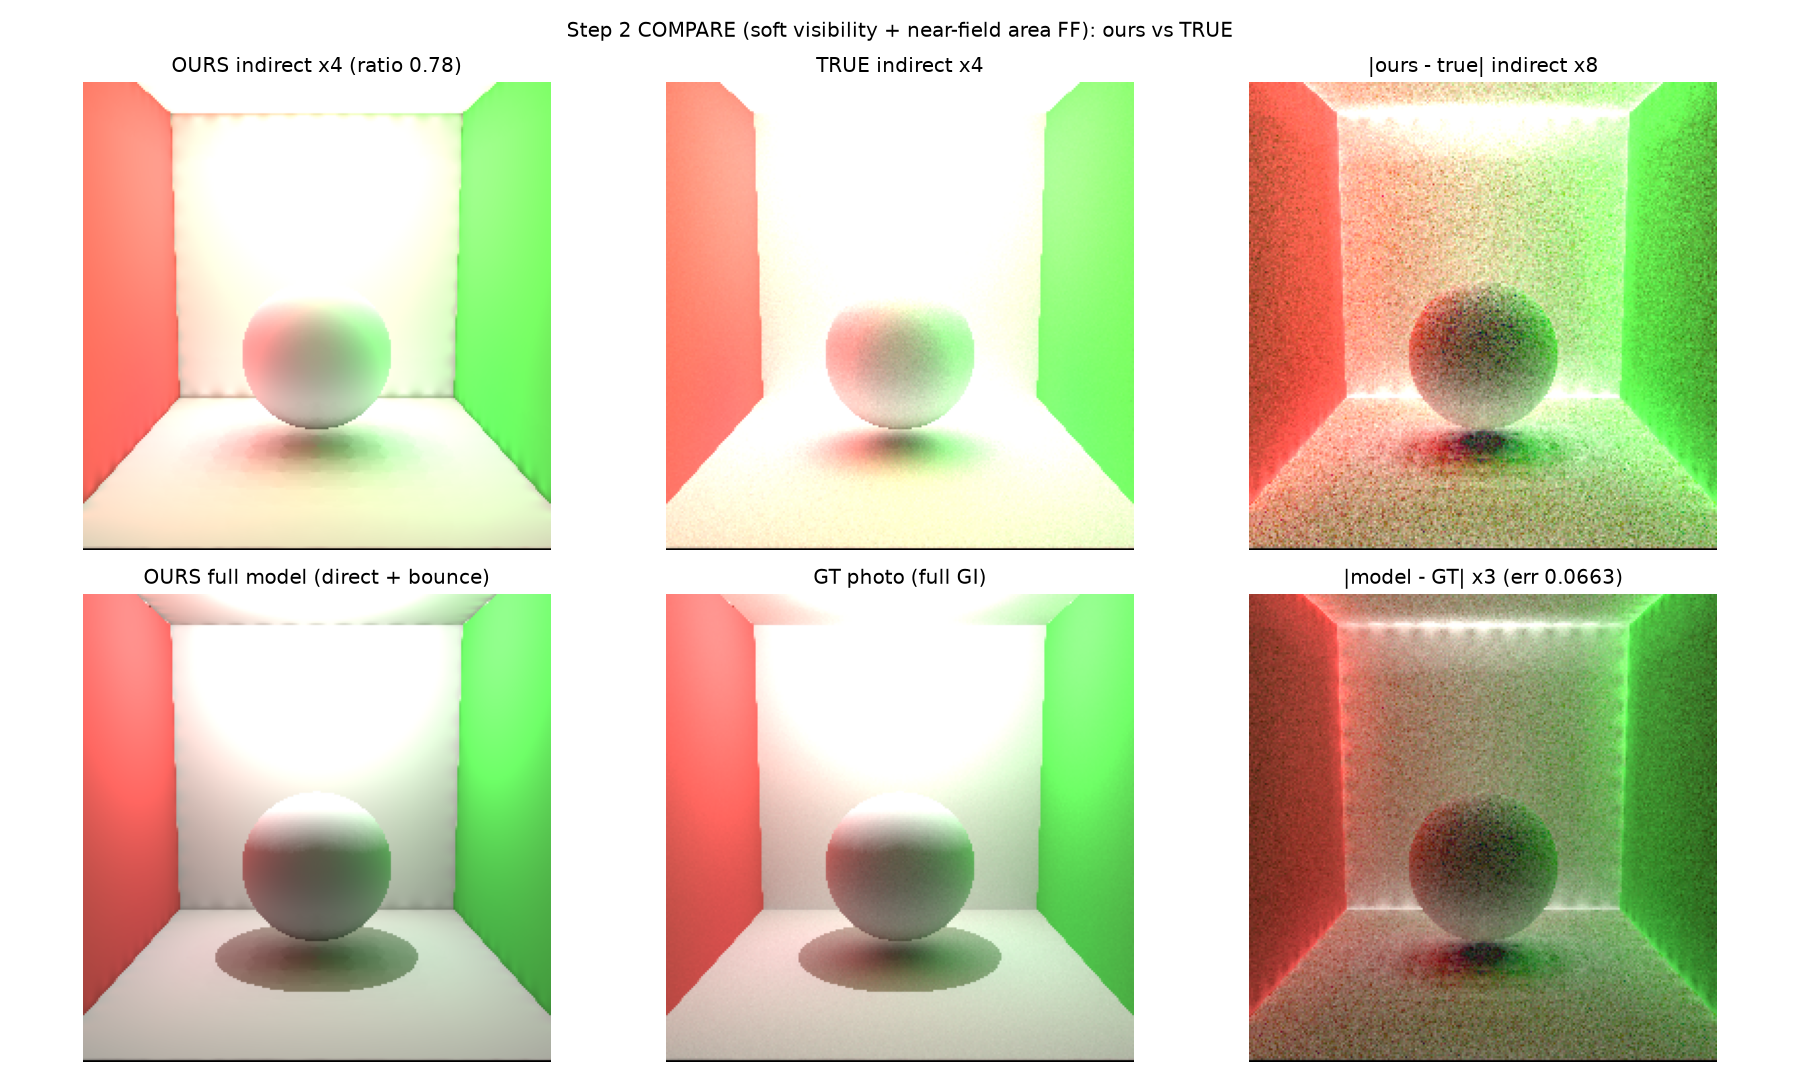
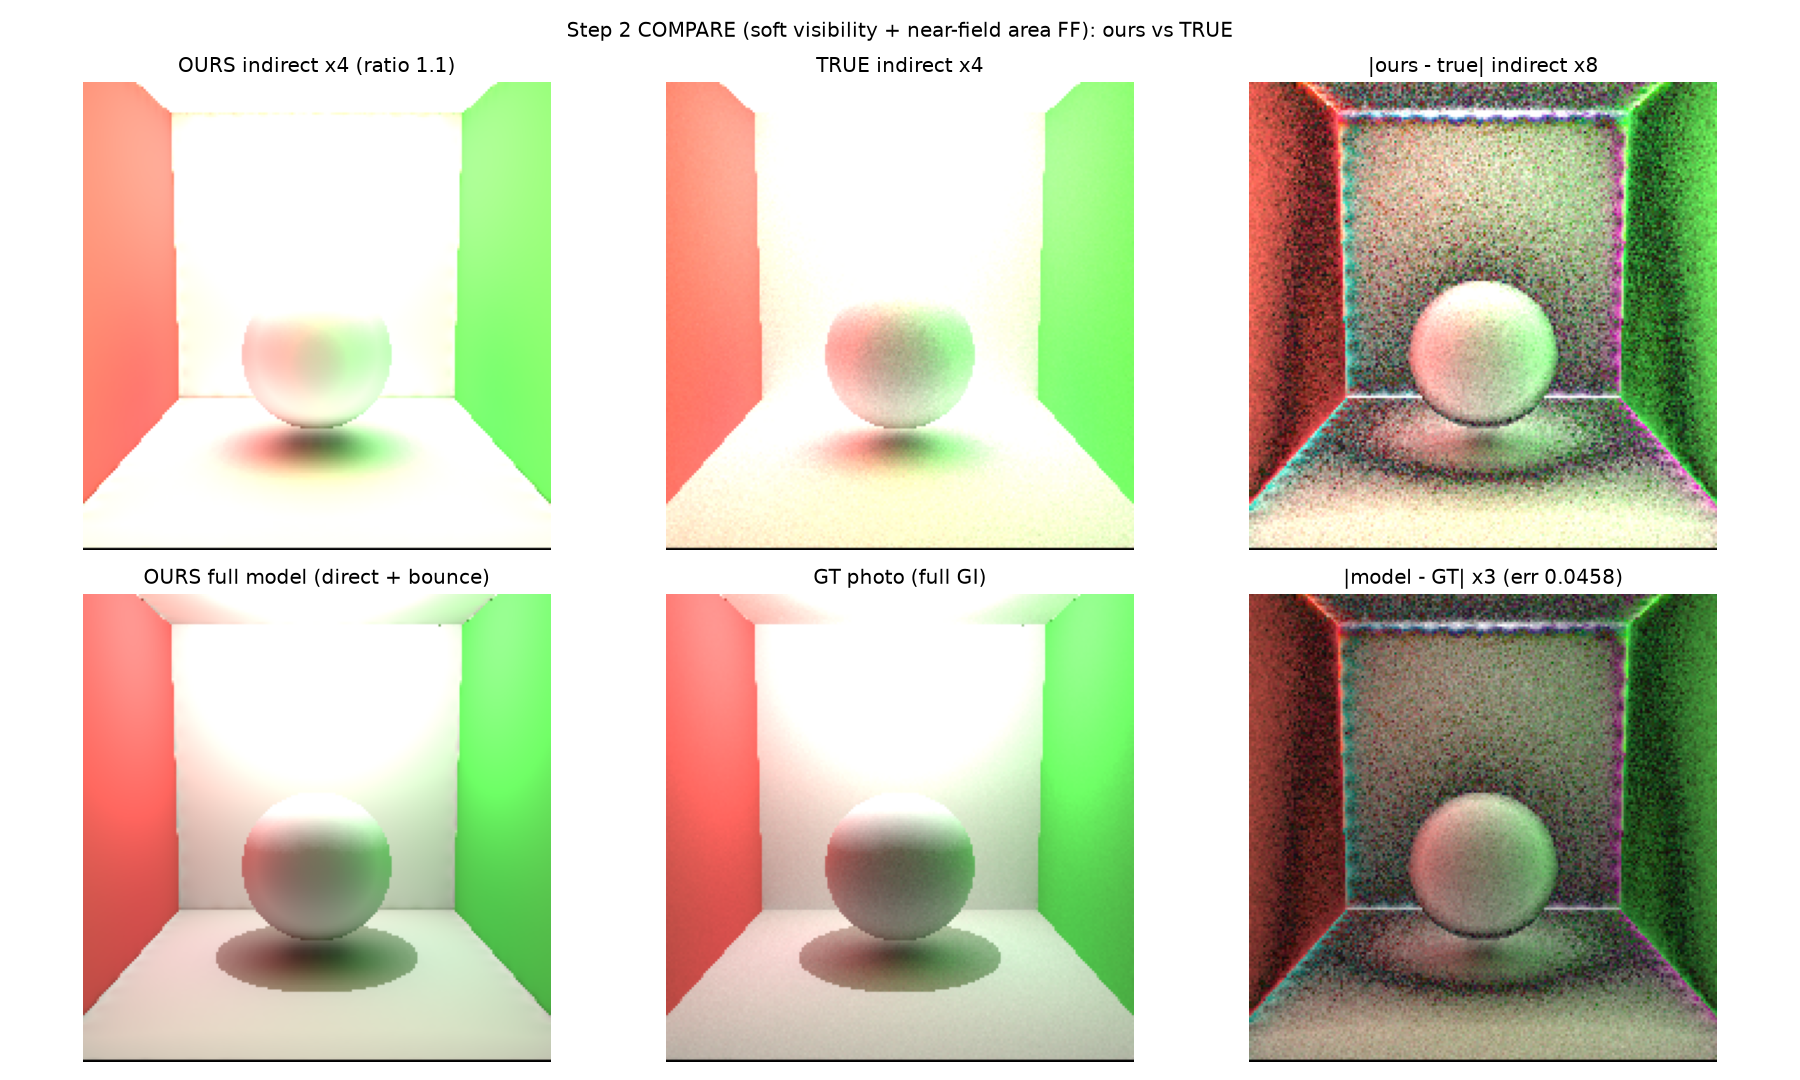
rt step2: exact per-pixel visibility for the bounce gather (ray pixel->patch, precomputed) -> indirect ~1.0-1.1x TRUE, model-vs-GT err 0.046. parked the residual GI-fidelity gap (spatial match not exact; faint shadow/bleed residual in recovered albedo) in REMINDERS_NOTES.md with levers to revisit. S

diff --git a/src/rt/rt_step2.py b/src/rt/rt_step2.py
@@ -26,7 +26,7 @@ H = int(sys.argv[2]) if len(sys.argv)>2 else 128
 ITERS = int(sys.argv[3]) if len(sys.argv)>3 else 400
 GT_SPP = int(sys.argv[4]) if len(sys.argv)>4 else 256
 W=H; EPS=0.04; DMIN=0.6; GT_NB=3
-VOX=0.18; R_MAX=3.0; KNN=96; BOUNCES=2          # element clustering, form-factor neighborhood, indirect bounces
+VOX=0.18; R_MAX=3.0; KNN=96; BOUNCES=3          # element clustering, form-factor neighborhood, indirect bounces
 
 LIGHT_POS = torch.tensor([0.0,0.9,-0.1], device=DEV)
 LIGHT_INT_TRUE = torch.tensor([7.0,7.0,7.0], device=DEV)
@@ -170,13 +170,29 @@ def pixel_weights(p, n, cen, nor, k=8, chunk=16000):
     return nbr,w
 
 
+def exact_vis_G(tr, gsA0, p, n, cen, nor, area, pchunk=2000):
+    """EXACT per-pixel visibility: trace a ray from each pixel to each emitter patch, gate the gather by it.
+    Geometry-only -> precomputed once. Removes the coarse patch-level visibility approximation."""
+    HW=p.shape[0]*p.shape[1]; E=cen.shape[0]; pf=p.reshape(-1,3); nf=n.reshape(-1,3)
+    G=view_G(p,n,cen,nor,area); vis=torch.empty(HW,E,device=DEV)
+    for s in range(0,HW,pchunk):
+        ps=pf[s:s+pchunk]; ns=nf[s:s+pchunk]; c=ps.shape[0]
+        d=cen[None,:,:]-ps[:,None,:]; r=d.norm(dim=-1); u=d/(r[...,None]+1e-9)        # (c,E,3)
+        ori=(ps[:,None,:]+ns[:,None,:]*EPS).expand(-1,E,-1).reshape(-1,3)
+        op,dist=trace_flat(tr,gsA0,ori,u.reshape(-1,3))
+        vis[s:s+pchunk]=(~((op>0.5)&(dist<r.reshape(-1)-3*EPS))).float().view(c,E)
+    clo=(1.0/G.sum(1,keepdim=True).clamp(min=0.3)).clamp(max=1.6)                     # closure normalization
+    return G*vis*clo
+
+
 def gated_G(G, Vis, nbr, w, chunk=2048):
     """bake SOFT per-pixel visibility into G: each pixel blends its k-nearest patches' visibility rows,
     so the shadow boundary is smooth (no patch-step squares). Geometry-only -> precomputed once per view."""
     HW=G.shape[0]; out=torch.empty_like(G)
+    clo=(1.0/G.sum(1,keepdim=True).clamp(min=0.3)).clamp(max=1.6)                     # closure norm: fix ~18% discretization energy loss (capped for open front)
     for s in range(0,HW,chunk):
         vs=(w[s:s+chunk][:,:,None]*Vis[nbr[s:s+chunk]]).sum(1)                       # (c,E) soft visibility
-        out[s:s+chunk]=G[s:s+chunk]*vs
+        out[s:s+chunk]=G[s:s+chunk]*vs*clo[s:s+chunk]
     return out
 
 
@@ -241,7 +257,7 @@ def precompute(tr,S,gsA0,gsN):
         fac_pix=torch.relu((n0*lp_).sum(-1,keepdim=True))*vis0/(ldp.clamp(min=DMIN)**2)
         GTgi=render_gt(tr,S,gsA0,gsN,cam,pdir,LIGHT_POS,LIGHT_INT_TRUE,GT_SPP,GT_NB).detach()
         GTdir=render_gt(tr,S,gsA0,gsN,cam,pdir,LIGHT_POS,LIGHT_INT_TRUE,0,0).detach()
-        Graw=view_G(p0,n0,cen,nor,area); pnbr,pw=pixel_weights(p0,n0,cen,nor); G=gated_G(Graw,Vis,pnbr,pw)
+        G=exact_vis_G(tr,gsA0,p0,n0,cen,nor,area)                                    # exact per-pixel visibility (consistent with compare)
         views.append(dict(cam=cam,pdir=pdir,hit=hit0,p=p0,n=n0,alb_t=alb_t,fac=fac_pix,GTgi=GTgi,GTdir=GTdir,G=G))
     return dict(fac_g=fac_g,eid=eid,E=E,K=K,V=Vis,Kdens=dens,mean_fac_elem=mean_fac_elem,views=views,
                 cen=cen,nor=nor,area=area)
@@ -467,7 +483,7 @@ def stage_compare():
     smean=lambda x:(torch.zeros(E,x.shape[1],device=DEV).index_add_(0,eid,x))/cntN[:,None]
     rho_elem=smean(S["alb"]); Edir_elem=LIGHT_INT_TRUE.view(1,3)*mean_fac_elem[:,None]
     cam,pdir=camera(*VIEWS[0]); hit0,p0,n0,alb_t=surf(tr,gsA0,gsN,cam,pdir); n0=orient(n0,-pdir); m=(hit0>0)
-    Graw=view_G(p0,n0,cen,nor,area); pnbr,pw=pixel_weights(p0,n0,cen,nor); G=gated_G(Graw,Vis,pnbr,pw)
+    G=exact_vis_G(tr,gsA0,p0,n0,cen,nor,area)                                         # exact per-pixel visibility
     print(f"  E={E}; rendering high-q GT ...")
     B=radiosity(rho_elem,Edir_elem,K,BOUNCES); ind=alb_t/PI*(G@B).view(H,W,3)
     lvp=LIGHT_POS.view(1,1,3)-p0; ldp=lvp.norm(dim=-1,keepdim=True); lpp=lvp/(ldp+1e-9); vis0=shadow_vis(tr,gsA0,p0,n0,LIGHT_POS)

diff --git a/Markdowns/REMINDERS_NOTES.md b/Markdowns/REMINDERS_NOTES.md
@@ -1,0 +1,49 @@
+# Reminders / Parked Research Notes
+
+Things deliberately parked at "good enough" to revisit later. Each entry: what it is, current quality,
+what's still off, and the levers to try when we come back.
+
+---
+
+## GI form-factor operator (Step 2) — parked 2026-06
+
+**What it is** (`src/rt/rt_step2.py`): a precomputed **per-pixel form-factor diffuse bounce** on coarse
+oriented surface patches (geometry is static → operator computed once, reused every optimization step).
+Ingredients: near-field-stable **area form factor** `cos·cos·A/(πr²+A)` + near-field r-clamp (kills edge
+waves); **closure normalization** (recovers ~18% discretization energy loss, capped for the open box front);
+**3 bounces**; **exact per-pixel visibility** (`exact_vis_G` — ray from each pixel to each patch; used in
+`compare`, now also in `precompute`). Modes: `sanity|walk|bounces|debug|measure|compare|full`.
+
+**Current quality (compare vs path-traced TRUE):** indirect ≈ **1.0–1.1× TRUE** magnitude, chromatically
+correct; full model vs GT photo **mean abs err ≈ 0.046**; under-sphere shadow smooth (no patch squares);
+edge waves gone.
+
+**What's still off (the parked gap):** it is **not an exact spatial match** to true GI. The `|ours−true|`
+diff still lights up along **corners/edges** and the ratio runs slightly **hot (~1.1)**. Consequently, in the
+inverse (`full` A/B) the recovered albedo still shows two faint residuals the user flagged:
+1. **former-shadow regions recover slightly too bright** (model indirect doesn't perfectly match true there),
+2. **faint red/green bleed baked onto the sphere/floor albedo** (unexplained colored indirect absorbed into material).
+Root: a **coarse-patch operator matches true GI's *magnitude* but not its exact *spatial distribution*.**
+
+**Levers to try when revisiting:**
+- finer / **adaptive patches** near contacts & corners (where indirect is high-frequency);
+- trim the **closure cap** so the magnitude lands exactly at 1.0× (currently ~1.1×);
+- more bounces;
+- ultimately, **differentiable path-traced GI in the loop** for exactness (expensive — the thing we avoided),
+  or a learned residual on top of the form-factor operator.
+
+**Why parked:** the Step-2 science point is already made (below); chasing pixel-exact GI via the coarse
+operator is diminishing returns for now.
+
+---
+
+## Step 2 result (the science, for the record)
+
+Adding the one precomputed diffuse bounce **demonstrably reduces the albedo↔light scale drift** the
+direct-only model suffers (Step 1):
+- recovered **light**: ~15 (no bounce) → **~9** (with bounce), true 7;
+- **albedo error**: 0.12 → **0.08–0.10**;
+- data-fit loss drops sharply (the model can now *explain* the indirect instead of distorting material/light).
+
+This is the prof's **ρ² mechanism** (direct scales as albedo¹, indirect as albedo²; only the true scale makes
+both agree). **Perfect** recovery is currently bounded by the GI-operator fidelity gap noted above.
